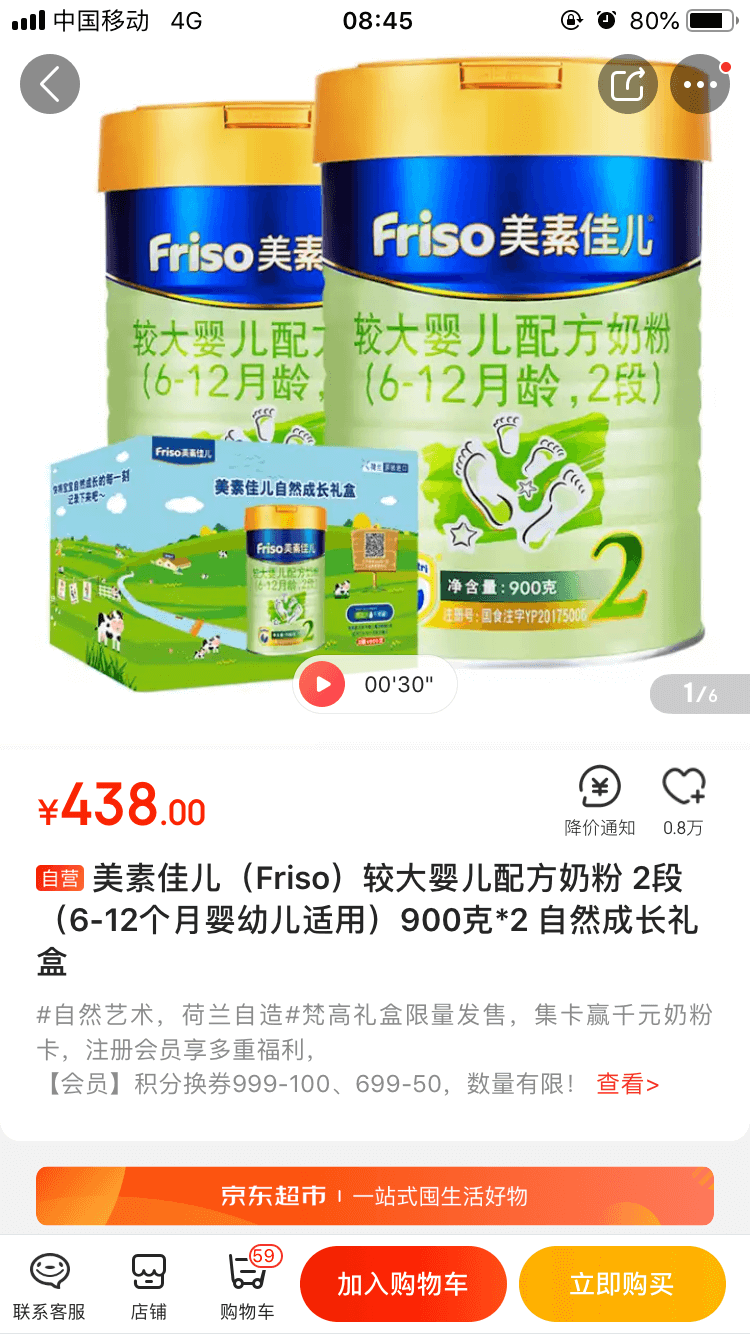
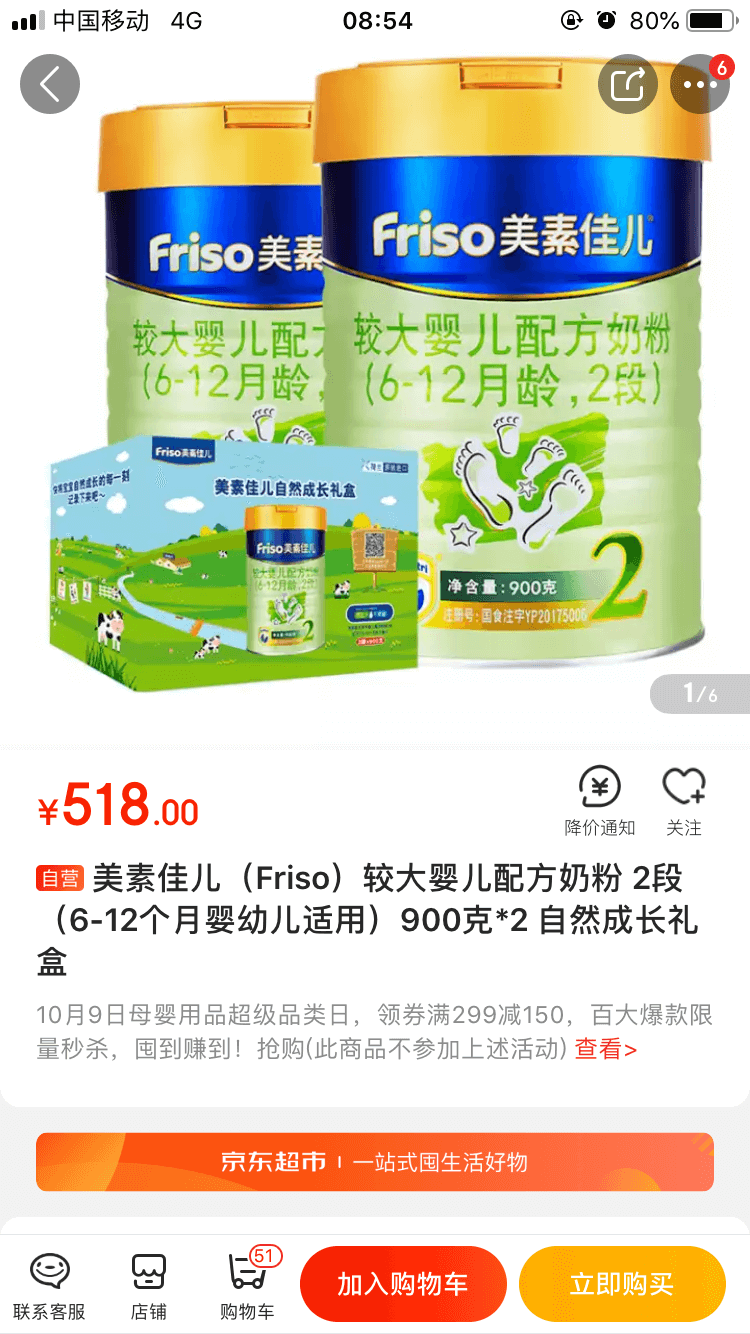
commit

diff --git a/others/MyStore/data/dataMaternal.js b/others/MyStore/data/dataMaternal.js
@@ -14,16 +14,16 @@ window.dataFood = {
           url: 'https://friend.380star.com/goods.do?goodsid=7375807&flag=0&storeid=244721&shareuserid=655864&addspuserid=655864',
         },
         {
-          type: 'tmall',
-          goodsPrice: 288,
-          image: './images/dataMaternal/美素佳儿-妈妈孕产妇配方奶粉-900g-tmall.PNG',
-          url: 'https://m.tb.cn/h.enl0li0?sm=18bfa1',
-        },
-        {
           type: 'jd',
           goodsPrice: 288,
           image: './images/dataMaternal/美素佳儿-妈妈孕产妇配方奶粉-900g-jd.PNG',
           url: 'https://item.m.jd.com/product/4589263.html?wxa_abtest=o&utm_source=iosapp&utm_medium=appshare&utm_campaign=t_335139774&utm_term=CopyURL&ad_od=share',
+        },
+        {
+          type: 'tmall',
+          goodsPrice: 288,
+          image: './images/dataMaternal/美素佳儿-妈妈孕产妇配方奶粉-900g-tmall.PNG',
+          url: 'https://m.tb.cn/h.enl0li0?sm=18bfa1',
         },
       ]
     },
@@ -39,16 +39,16 @@ window.dataFood = {
           url: 'https://friend.380star.com/goods.do?goodsid=7375800&flag=0&storeid=244721&shareuserid=655864&addspuserid=655864',
         },
         {
-          type: 'tmall',
-          goodsPrice: 120,
-          image: './images/dataMaternal/美素佳儿-美素力-婴儿配方奶粉-1段-罐装-400g-tmall.PNG',
-          url: 'https://m.tb.cn/h.en2OvLx?sm=4f4457',
-        },
-        {
           type: 'jd',
           goodsPrice: 120,
           image: './images/dataMaternal/美素佳儿-美素力-婴儿配方奶粉-1段-罐装-400g-jd.PNG',
           url: 'https://item.m.jd.com/product/6514032.html?wxa_abtest=o&utm_source=iosapp&utm_medium=appshare&utm_campaign=t_335139774&utm_term=CopyURL&ad_od=share',
+        },
+        {
+          type: 'tmall',
+          goodsPrice: 120,
+          image: './images/dataMaternal/美素佳儿-美素力-婴儿配方奶粉-1段-罐装-400g-tmall.PNG',
+          url: 'https://m.tb.cn/h.en2OvLx?sm=4f4457',
         },
       ]
     },
@@ -64,16 +64,16 @@ window.dataFood = {
           url: 'https://friend.380star.com/goods.do?goodsid=7375801&flag=0&storeid=244721&shareuserid=655864&addspuserid=655864',
         },
         {
-          type: 'tmall',
-          goodsPrice: 268,
-          image: './images/dataMaternal/美素佳儿-美素力-婴儿配方奶粉-1段-罐装-900g-tmall.PNG',
-          url: 'https://m.tb.cn/h.eNq1w6r?sm=e13371',
-        },
-        {
           type: 'jd',
           goodsPrice: 268,
           image: './images/dataMaternal/美素佳儿-美素力-婴儿配方奶粉-1段-罐装-900g-jd.PNG',
           url: 'https://item.m.jd.com/product/6727623.html?wxa_abtest=o&utm_source=iosapp&utm_medium=appshare&utm_campaign=t_335139774&utm_term=CopyURL&ad_od=share',
+        },
+        {
+          type: 'tmall',
+          goodsPrice: 268,
+          image: './images/dataMaternal/美素佳儿-美素力-婴儿配方奶粉-1段-罐装-900g-tmall.PNG',
+          url: 'https://m.tb.cn/h.eNq1w6r?sm=e13371',
         },
       ]
     },
@@ -89,42 +89,51 @@ window.dataFood = {
           url: 'https://friend.380star.com/goods.do?goodsid=7375802&flag=0&storeid=244721&shareuserid=655864&addspuserid=655864',
         },
         {
+          type: 'jd',
+          goodsPrice: 518,
+          image: './images/dataMaternal/美素佳儿-金装2段奶粉-2罐-900g-组合装-jd.PNG',
+          url: 'https://item.m.jd.com/product/100004188421.html?wxa_abtest=o&utm_source=iosapp&utm_medium=appshare&utm_campaign=t_335139774&utm_term=CopyURL&ad_od=share',
+        },
+        {
           type: 'tmall',
           goodsPrice: 536,
           image: './images/dataMaternal/美素佳儿-金装2段奶粉-2罐-900g-组合装-tmall.PNG',
           url: 'https://m.tb.cn/h.enDfR4S?sm=e6ca2d',
         },
-        {
-          type: 'jd',
-          goodsPrice: 438,
-          image: './images/dataMaternal/美素佳儿-金装2段奶粉-2罐-900g-组合装-jd.PNG',
-          url: 'https://item.m.jd.com/product/7350652.html?wxa_abtest=o&utm_source=iosapp&utm_medium=appshare&utm_campaign=t_335139774&utm_term=CopyURL&ad_od=share',
-        },
       ]
     },
     {
-      title: '美素佳儿-金装3段奶粉-3罐-组合套装',
+      title: '美素佳儿-金装3段奶粉-2罐-组合套装',
       keywords: ['奶粉', '美素佳儿'],
-      goodsPrice: 516,
-      commission: 9.25,
+      goodsPrice: 358,
+      commission: 23.55,
+      isBoutique: true,
       pictures: [
         {
           type: 'star',
-          image: './images/dataMaternal/美素佳儿-金装3段奶粉-3罐-组合套装.PNG',
-          url: 'https://friend.380star.com/goods.do?goodsid=7375799&flag=0&storeid=244721&shareuserid=655864&addspuserid=655864',
+          image: './images/dataMaternal/美素佳儿-金装3段奶粉-2罐-组合套装.PNG',
+          url: 'https://friend.380star.com/goods.do?goodsid=7235171&flag=0&shopbag=1&storeid=244721&shareuserid=655864&addspuserid=655864',
+        },
+        {
+          type: 'jd',
+          goodsPrice: 318,
+          image: './images/dataMaternal/美素佳儿-金装3段奶粉-2罐-组合套装-jd.PNG',
+          url: 'https://item.m.jd.com/product/10537958867.html?wxa_abtest=o&utm_source=iosapp&utm_medium=appshare&utm_campaign=t_335139774&utm_term=CopyURL&ad_od=share',
         },
         {
           type: 'tmall',
           goodsPrice: 456,
-          couponPrice: 408,
-          image: './images/dataMaternal/美素佳儿-金装3段奶粉-3罐-组合套装-tmall.PNG',
-          url: 'https://m.tb.cn/h.enlds45?sm=f017d8',
+          couponPrice: 456,
+          image: './images/dataMaternal/美素佳儿-金装3段奶粉-2罐-组合套装-tmall-2.PNG',
+          url: 'https://m.tb.cn/h.eoIW3Xf?sm=2ae1e5',
         },
         {
-          type: 'jd',
-          goodsPrice: 716,
-          image: './images/dataMaternal/美素佳儿-金装3段奶粉-3罐-组合套装-jd.PNG',
-          url: 'https://item.m.jd.com/product/100007618986.html?wxa_abtest=o&utm_source=iosapp&utm_medium=appshare&utm_campaign=t_335139774&utm_term=CopyURL&ad_od=share',
+          isInvalid: true,
+          type: 'tmall',
+          goodsPrice: 456,
+          couponPrice: 358,
+          image: './images/dataMaternal/美素佳儿-金装3段奶粉-2罐-组合套装-tmall.PNG',
+          url: 'https://m.tb.cn/h.enlds45?sm=f017d8',
         },
       ]
     },
@@ -140,9 +149,23 @@ window.dataFood = {
           url: 'https://friend.380star.com/goods.do?goodsid=7375809&flag=0&storeid=244721&shareuserid=655864&addspuserid=655864',
         },
         {
+          type: 'jd',
+          goodsPrice: 338,
+          image: './images/dataMaternal/美素佳儿-金装4段奶粉-2罐-组合套装-jd.PNG',
+          url: 'https://item.m.jd.com/product/6514034.html?wxa_abtest=o&utm_source=iosapp&utm_medium=appshare&utm_campaign=t_335139774&utm_term=CopyURL&ad_od=share',
+        },
+        {
           type: 'tmall',
           goodsPrice: 396,
-          couponPrice: 388,
+          couponPrice: 396,
+          image: './images/dataMaternal/美素佳儿-金装4段奶粉-2罐-组合套装-tmall-2.PNG',
+          url: 'https://m.tb.cn/h.eMz12Gu?sm=f8c67d',
+        },
+        {
+          isInvalid: true,
+          type: 'tmall',
+          goodsPrice: 396,
+          couponPrice: 338,
           image: './images/dataMaternal/美素佳儿-金装4段奶粉-2罐-组合套装-tmall.PNG',
           url: 'https://m.tb.cn/h.enl4l11?sm=4640fa',
         },

diff --git a/others/MyStore/css/main.css b/others/MyStore/css/main.css
@@ -1,3 +1,8 @@
+#iframeBox {
+  position: absolute;
+  left: -9999px;
+}
+
 #container {
   padding: 0 10px;
 }
@@ -79,7 +84,7 @@
   width: 100%;
   padding: 10px 0;
   text-indent: 10px;
-  background: rgba(255,255,255,.7);
+  background: rgba(255,255,255,.8);
 }
 
 .goods-item-image-box {
@@ -112,4 +117,21 @@
   margin-top: 10px;
   font-size: 14px;
   line-height: 26px;
+}
+
+.goods-item-invalid {
+  position: absolute;
+  left: 0;
+  top: 0;
+  width: 100%;
+  height: 100%;
+  display: flex;
+  align-items: center;
+  justify-content: center;
+  background: rgba(0,0,0,.5);
+}
+.goods-item-invalid-text {
+  font-size: 14px;
+  line-height: 28px;
+  color: #fff;
 }

diff --git a/others/MyStore/index.html b/others/MyStore/index.html
@@ -9,6 +9,7 @@
     <script src="./js/vue.min.js"></script>
 </head>
 <body>
+	<iframe id="iframeBox" src="https://friend.380star.com/goods.do?goodsid=7375807&flag=0&storeid=244721&shareuserid=655864&addspuserid=655864"></iframe>
 	<div id="container">
 		<div id="goodsBox">
 			<div
@@ -56,6 +57,9 @@
 								</div>
 								<div class="goods-item-image-box">
 									<img class="goods-item-image" :src="picItem.image" />
+								</div>
+								<div v-if="picItem.isInvalid" class="goods-item-invalid">
+									<div class="goods-item-invalid-text">已失效</div>
 								</div>
 							</a>
 						</div>
